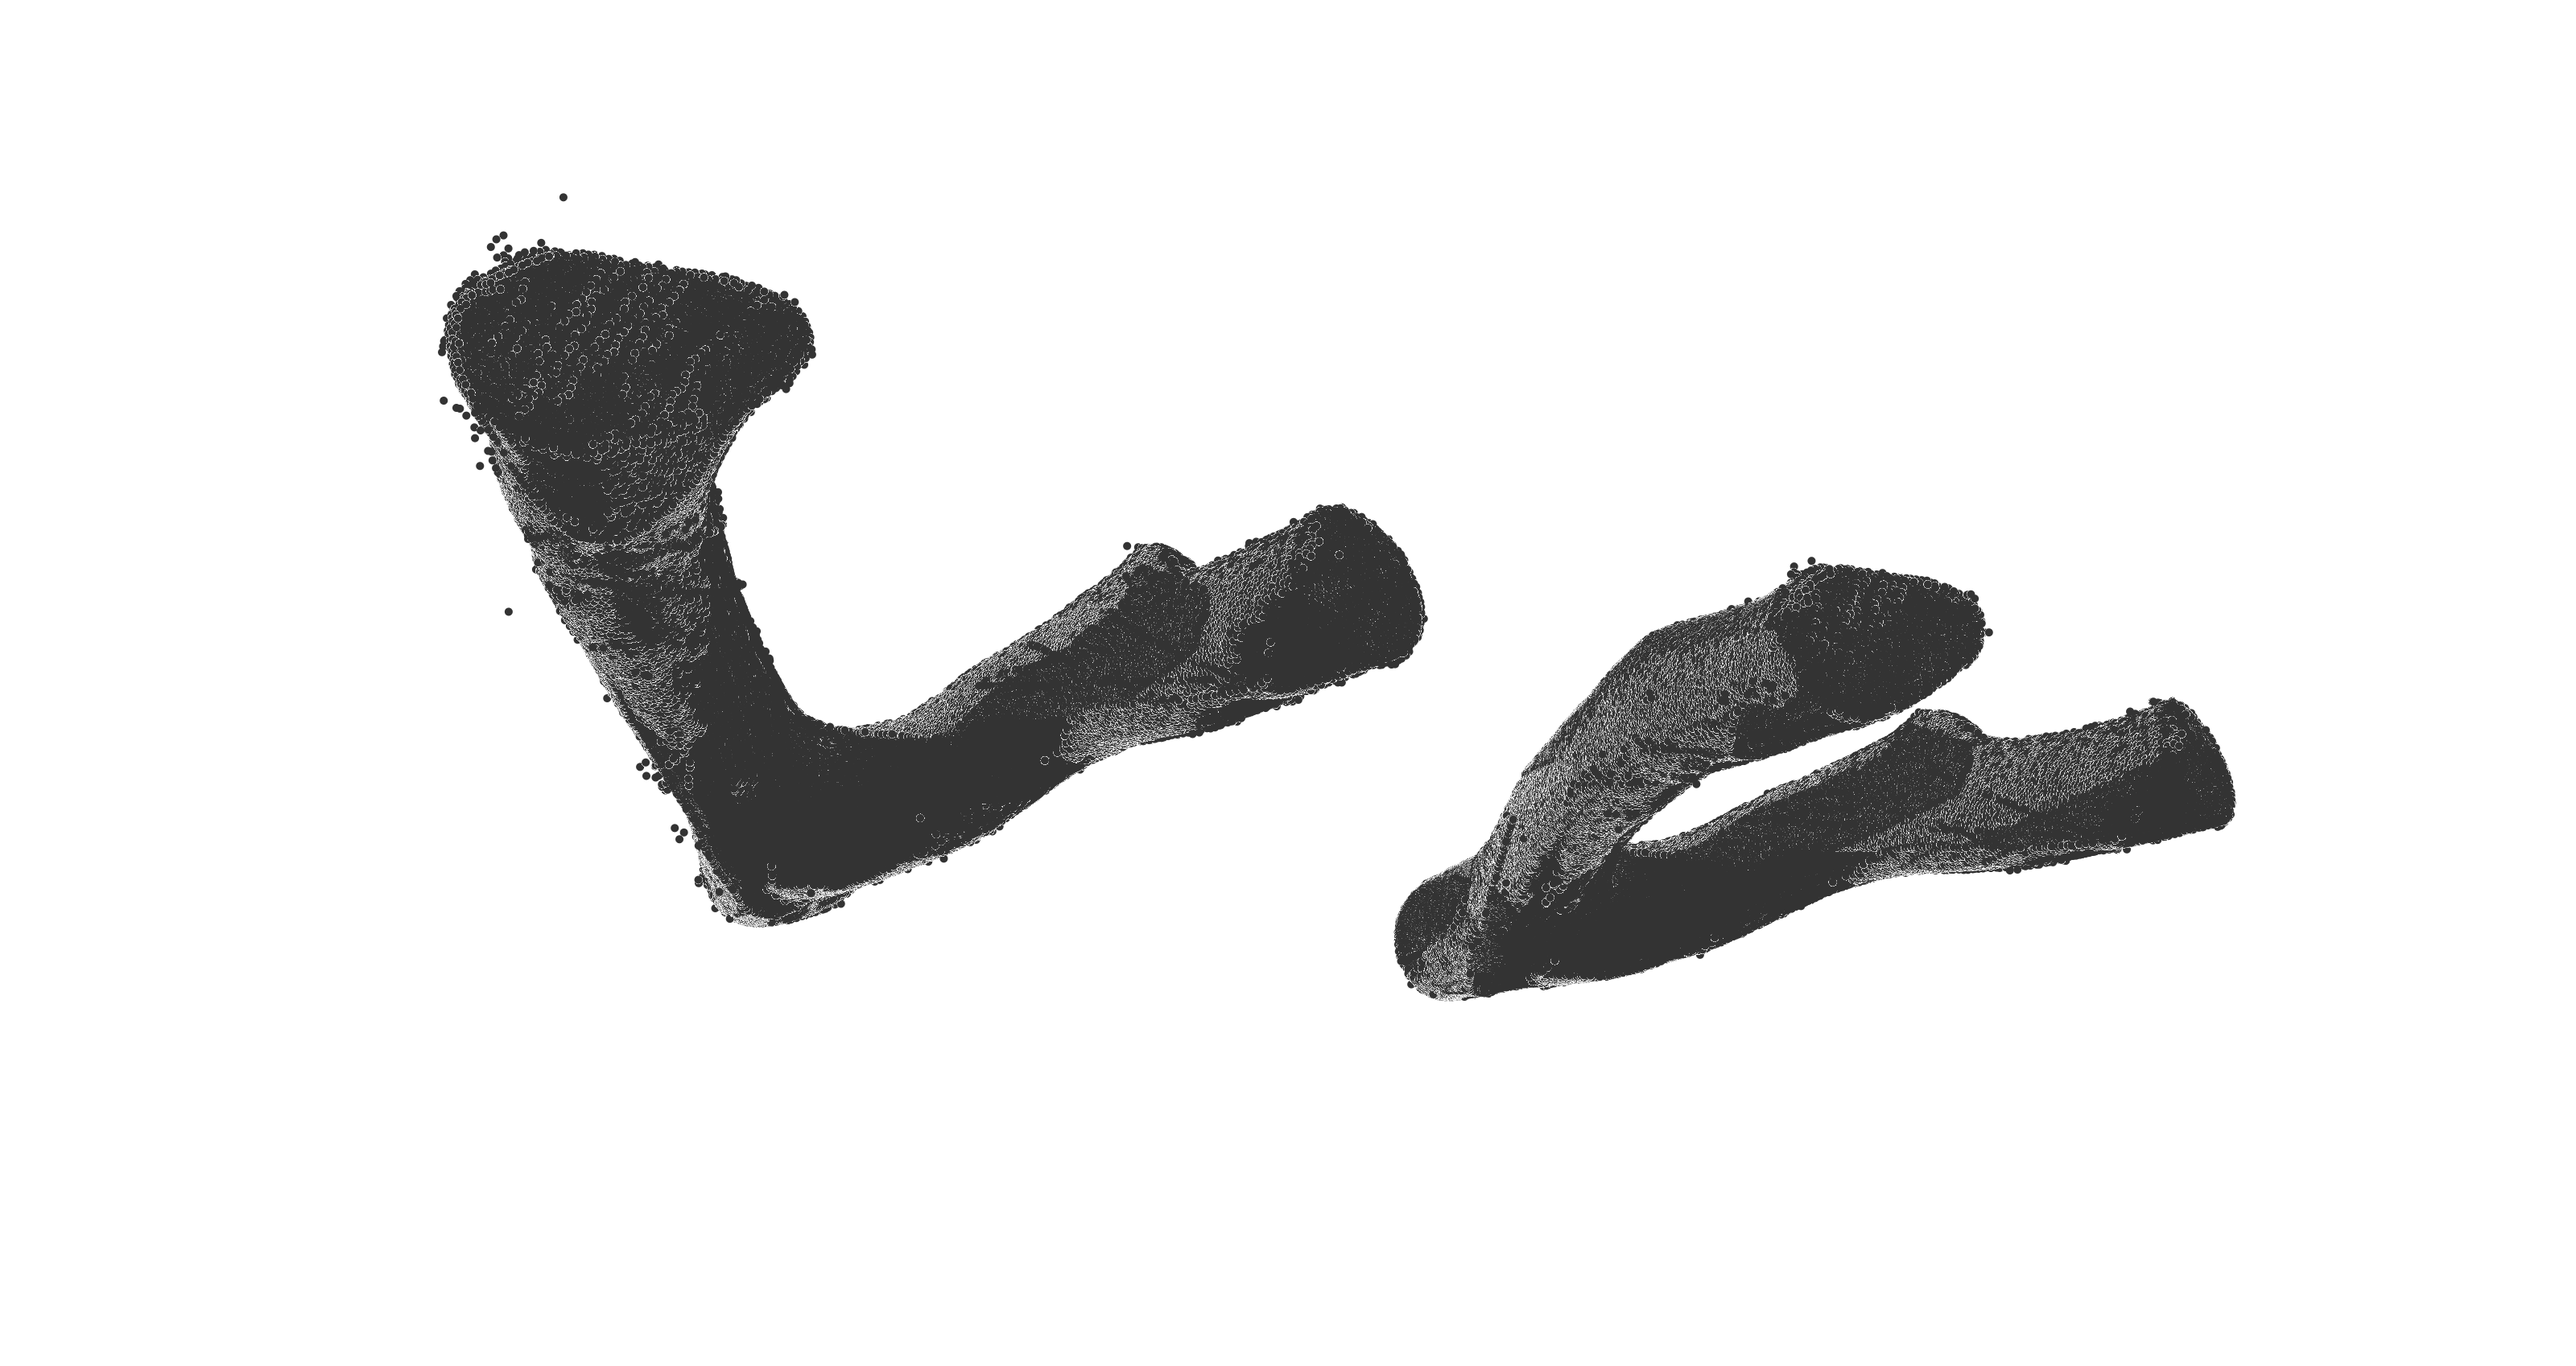
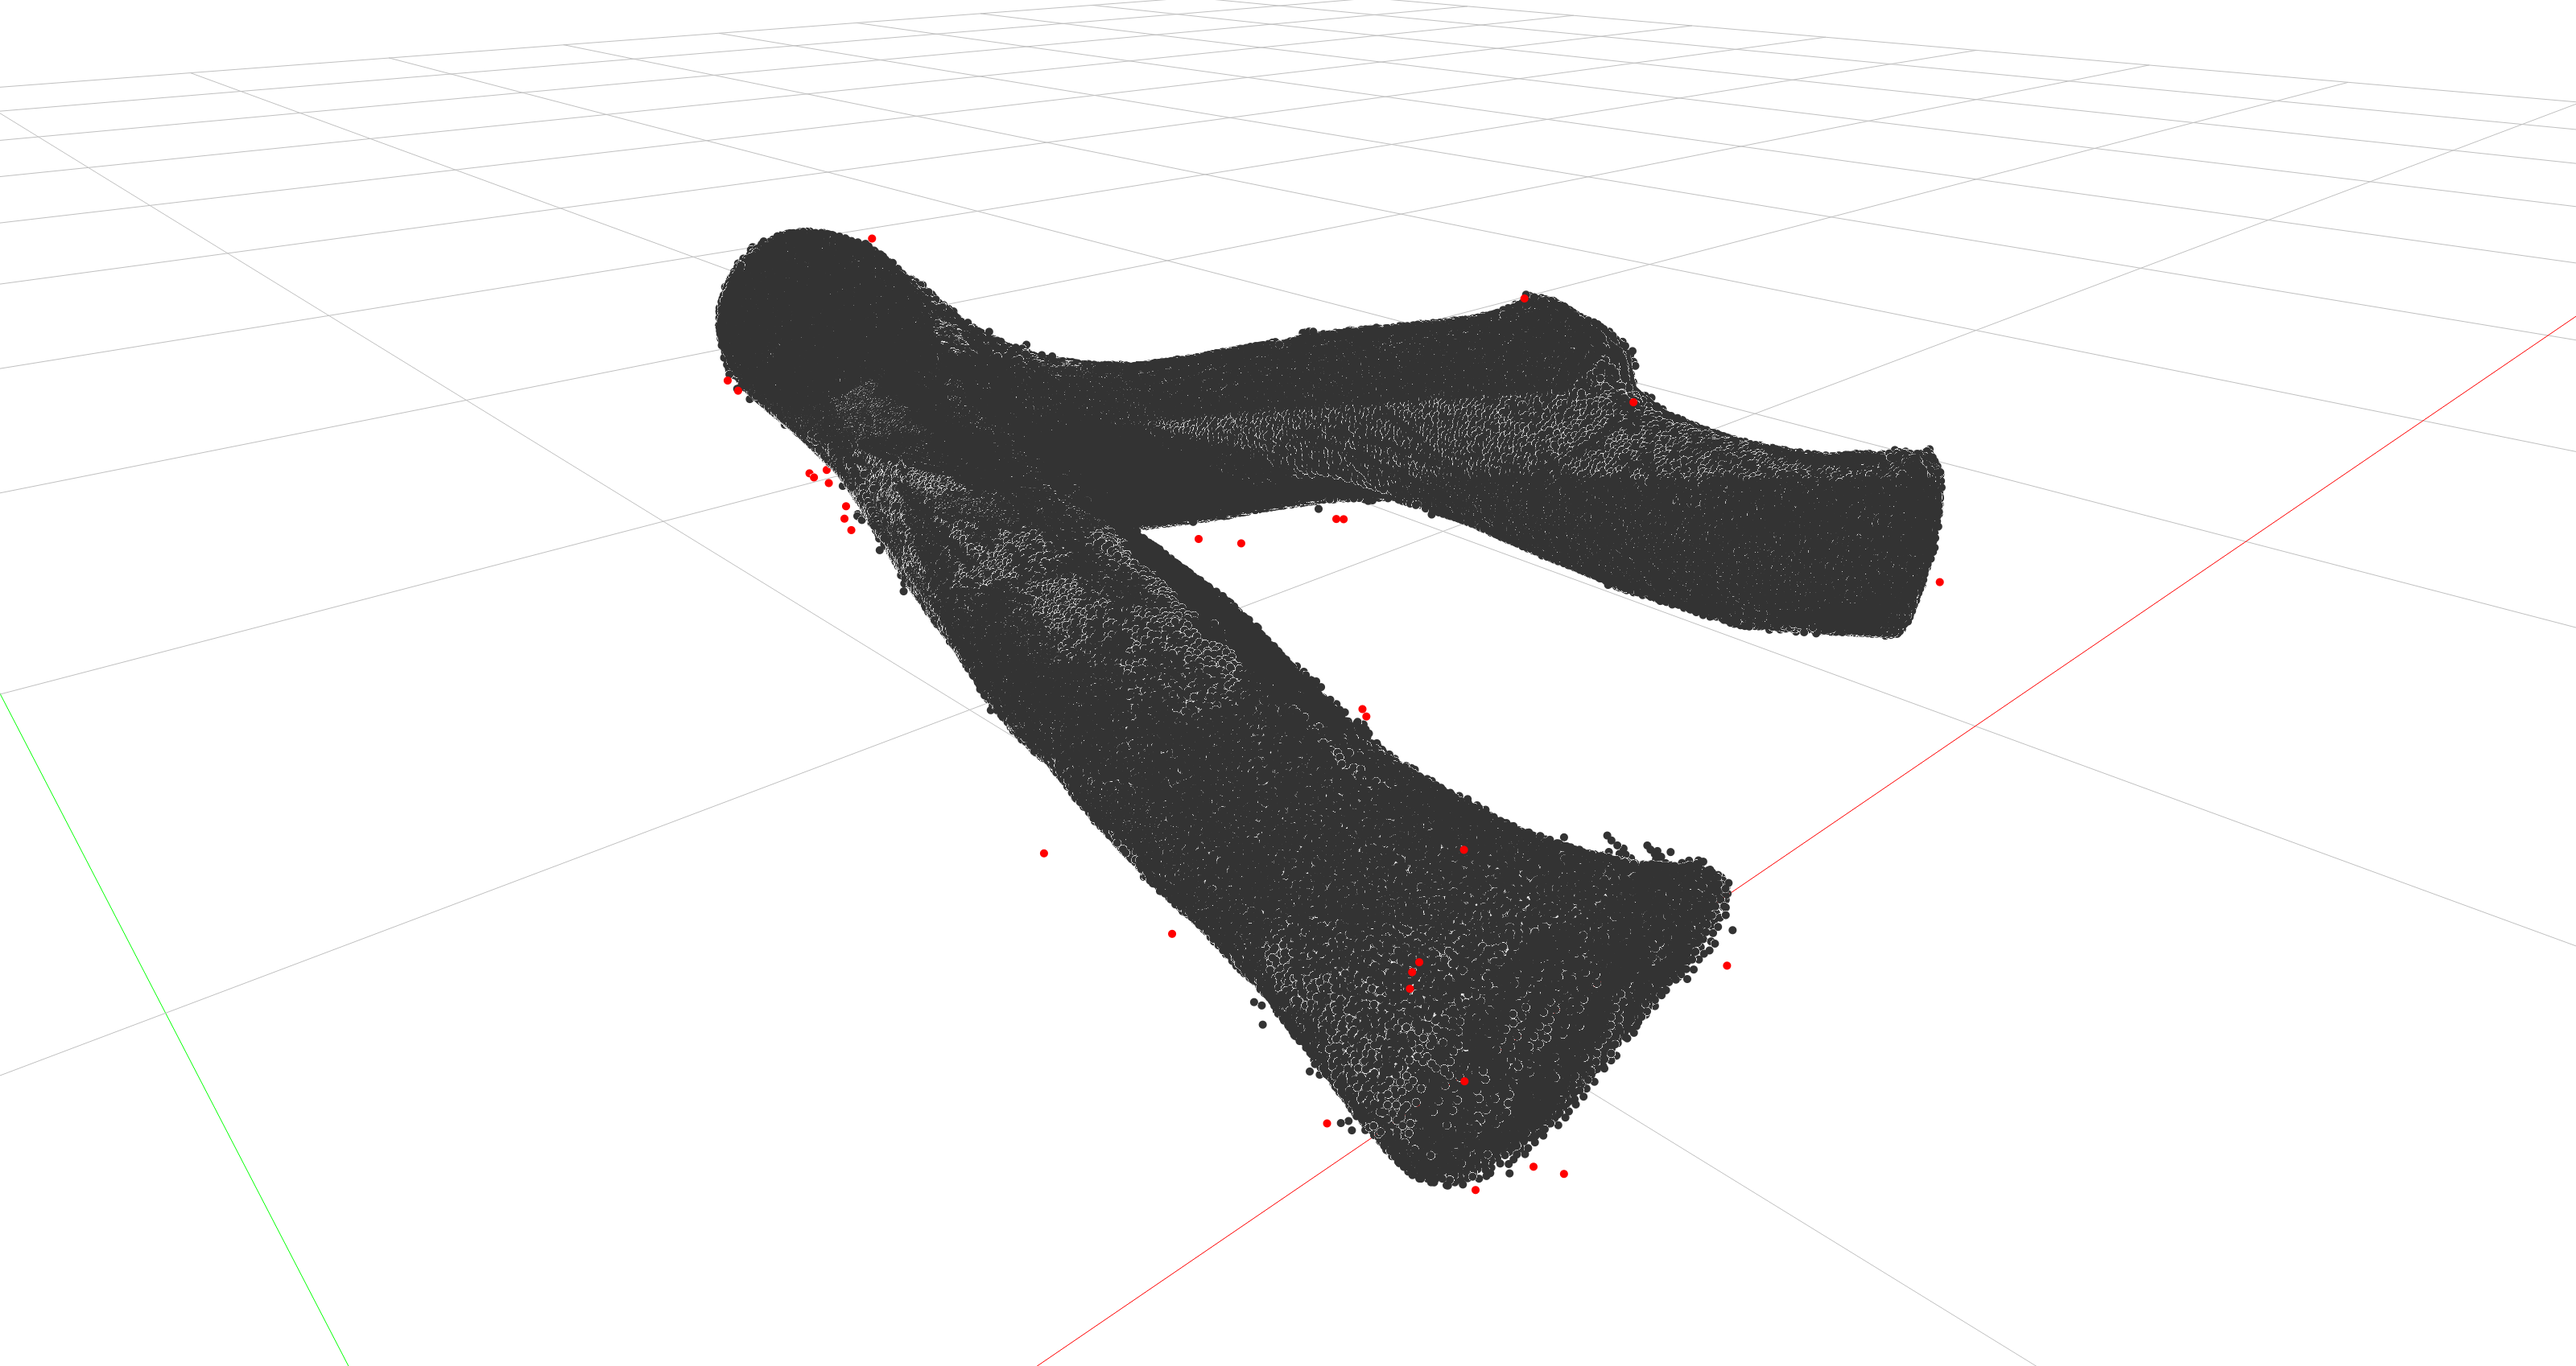
switch to new theme

Changed region(s): [[0.1562, 0.1561, 0.875, 0.874], [0.5, 0.0, 0.5625, 0.0312], [0.4375, 0.0, 0.4688, 0.0312]]

diff --git a/docs/conf.py b/docs/conf.py
@@ -1,14 +1,7 @@
 # flake8: noqa
 # -*- coding: utf-8 -*-
 
-# If your documentation needs a minimal Sphinx version, state it here.
-#
-# needs_sphinx = "1.0"
-
-import inspect
-import importlib
-import re
-import sphinx_compas_theme  # this is a temp solution
+import sphinx_compas2_theme
 
 # -- General configuration ------------------------------------------------
 
@@ -18,23 +11,15 @@ author = "Tom Van Mele"
 package = "compas_cgal"
 organization = "compas-dev"
 
+master_doc = "index"
+source_suffix = {".rst": "restructuredtext", ".md": "markdown"}
+templates_path = sphinx_compas2_theme.get_autosummary_templates_path()
+exclude_patterns = sphinx_compas2_theme.default_exclude_patterns + ["reference/**"]
+add_module_names = True
+language = "en"
 
-def get_latest_version():
-    with open("../CHANGELOG.md", "r") as file:
-        content = file.read()
-        pattern = re.compile(r"## (Unreleased|\[\d+\.\d+\.\d+\])")
-        versions = pattern.findall(content)
-        latest_version = versions[0] if versions else None
-        if (
-            latest_version
-            and latest_version.startswith("[")
-            and latest_version.endswith("]")
-        ):
-            latest_version = latest_version[1:-1]
-        return latest_version
+latest_version = sphinx_compas2_theme.get_latest_version()
 
-
-latest_version = get_latest_version()
 if latest_version == "Unreleased":
     release = "Unreleased"
     version = "latest"
@@ -42,55 +27,18 @@ else:
     release = latest_version
     version = ".".join(release.split(".")[0:2])  # type: ignore
 
-master_doc = "index"
-source_suffix = {
-    ".rst": "restructuredtext",
-    ".md": "markdown",
-}
-templates_path = sphinx_compas_theme.get_autosummary_templates_path() + ["_templates"]
-exclude_patterns = ["_build", "**.ipynb_checkpoints", "_notebooks", "**/__temp"]
-
-# pygments_style = "sphinx"
-# pygments_dark_style = "monokai"
-# show_authors = True
-add_module_names = True
-language = "en"
-
-
 # -- Extension configuration ------------------------------------------------
 
-extensions = [
-    "sphinx.ext.autodoc",
-    "sphinx.ext.autosummary",
-    "sphinx.ext.doctest",
-    "sphinx.ext.intersphinx",
-    "sphinx.ext.mathjax",
-    # "sphinx.ext.linkcode",
-    "sphinx.ext.extlinks",
-    "sphinx.ext.githubpages",
-    "sphinx.ext.coverage",
-    # "sphinx.ext.inheritance_diagram",
-    "sphinx.ext.graphviz",
-    # "matplotlib.sphinxext.plot_directive",
-    "sphinx.ext.autodoc.typehints",
-    "sphinx_design",
-    "sphinx_inline_tabs",
-    "sphinx_togglebutton",
-    "sphinx_remove_toctrees",
-    "sphinx_copybutton",
-    # "sphinxcontrib.bibtex",
-    "numpydoc",
-]
+extensions = sphinx_compas2_theme.default_extensions
+extensions.remove("sphinx.ext.linkcode")
 
-# remove_from_toctrees = ["api/generated/*"]
+# numpydoc options
 
 numpydoc_show_class_members = False
 numpydoc_class_members_toctree = False
 numpydoc_attributes_as_param_list = True
 
 # bibtex options
-
-# bibtex_bibfiles = ['refs.bib']
 
 # autodoc options
 
@@ -107,18 +55,7 @@ autodoc_typehints = "description"
 autodoc_typehints_format = "short"
 autodoc_typehints_description_target = "documented"
 
-autodoc_mock_imports = [
-    "System",
-    "clr",
-    "Eto",
-    "Rhino",
-    "Grasshopper",
-    "scriptcontext",
-    "rhinoscriptsyntax",
-    "bpy",
-    "bmesh",
-    "mathutils",
-]
+autodoc_mock_imports = sphinx_compas2_theme.default_mock_imports
 
 autodoc_default_options = {
     "undoc-members": True,
@@ -129,32 +66,10 @@ autodoc_member_order = "groupwise"
 
 autoclass_content = "class"
 
-
-def skip(app, what, name, obj, would_skip, options):
-    if name.startswith("_"):
-        return True
-    return would_skip
-
-
-def setup(app):
-    app.connect("autodoc-skip-member", skip)
-
-
 # autosummary options
 
 autosummary_generate = True
-autosummary_mock_imports = [
-    "System",
-    "clr",
-    "Eto",
-    "Rhino",
-    "Grasshopper",
-    "scriptcontext",
-    "rhinoscriptsyntax",
-    "bpy",
-    "bmesh",
-    "mathutils",
-]
+autosummary_mock_imports = sphinx_compas2_theme.default_mock_imports
 
 # graph options
 
@@ -174,54 +89,11 @@ intersphinx_mapping = {
 
 # linkcode
 
-
-def linkcode_resolve(domain, info):
-    if domain != "py":
-        return None
-    if not info["module"]:
-        return None
-    if not info["fullname"]:
-        return None
-
-    package = info["module"].split(".")[0]
-    if not package.startswith(package):
-        return None
-
-    module = importlib.import_module(info["module"])
-    parts = info["fullname"].split(".")
-
-    if len(parts) == 1:
-        obj = getattr(module, info["fullname"])
-        mod = inspect.getmodule(obj)
-        if not mod:
-            return None
-        filename = mod.__name__.replace(".", "/")
-        lineno = inspect.getsourcelines(obj)[1]
-    elif len(parts) == 2:
-        obj_name, attr_name = parts
-        obj = getattr(module, obj_name)
-        attr = getattr(obj, attr_name)
-        if inspect.isfunction(attr):
-            mod = inspect.getmodule(attr)
-            if not mod:
-                return None
-            filename = mod.__name__.replace(".", "/")
-            lineno = inspect.getsourcelines(attr)[1]
-        else:
-            return None
-    else:
-        return None
-
-    return f"https://github.com/{organization}/{package}/blob/main/src/{filename}.py#L{lineno}"
-
+# linkcode_resolve = sphinx_compas2_theme.get_linkcode_resolve(organization, package)
 
 # extlinks
 
-
-extlinks = {
-    "rhino": ("https://developer.rhino3d.com/api/RhinoCommon/html/T_%s.htm", "%s"),
-    "blender": ("https://docs.blender.org/api/2.93/%s.html", "%s"),
-}
+extlinks = {}
 
 # from pytorch
 
@@ -255,67 +127,49 @@ replace(html5.HTML5Translator)
 
 # -- Options for HTML output ----------------------------------------------
 
-html_theme = "pydata_sphinx_theme"
-html_logo = "_static/compas_icon.png"
+html_theme = "sidebaronly"
 html_title = project
-html_favicon = "_static/compas.ico"
 
 html_theme_options = {
-    "logo": {
-        "text": project,
-        "image_light": "_static/compas_icon.png",
-        "image_dark": "_static/compas_icon_white.png",
-    },
+    "icon_links": [
+        {
+            "name": "GitHub",
+            "url": f"https://github.com/{organization}/{package}",
+            "icon": "fa-brands fa-github",
+            "type": "fontawesome",
+        },
+        {
+            "name": "Discourse",
+            "url": "http://forum.compas-framework.org/",
+            "icon": "fa-brands fa-discourse",
+            "type": "fontawesome",
+        },
+        {
+            "name": "PyPI",
+            "url": f"https://pypi.org/project/{package}/",
+            "icon": "fa-brands fa-python",
+            "type": "fontawesome",
+        },
+    ],
     "switcher": {
         "json_url": f"https://raw.githubusercontent.com/{organization}/{package}/gh-pages/versions.json",
         "version_match": version,
     },
     "check_switcher": False,
-    "navigation_depth": 3,
-    "show_nav_level": 1,
-    "show_toc_level": 2,
-    "pygment_light_style": "default",
-    "pygment_dark_style": "monokai",
+    "logo": {
+        "image_light": "_static/compas_icon_white.png",  # relative to parent of conf.py
+        "image_dark": "_static/compas_icon_white.png",  # relative to parent of conf.py
+        "text": project,
+    },
+    "navigation_depth": 2,
 }
 
-html_theme_options["icon_links"] = [
+favicons = [
     {
-        "name": "GitHub",
-        "url": f"https://github.com/{organization}/{package}",
-        "icon": "fa-brands fa-github",
-        "type": "fontawesome",
-    },
-    {
-        "name": "Discourse",
-        "url": "http://forum.compas-framework.org/",
-        "icon": "fa-brands fa-discourse",
-        "type": "fontawesome",
-    },
-    {
-        "name": "PyPI",
-        "url": "https://pypi.org/project/compas-libigl/",
-        "icon": "fa-brands fa-python",
-        "type": "fontawesome",
-    },
+        "rel": "icon",
+        "href": "compas.ico",  # relative to the static path
+    }
 ]
-
-html_theme_options["navbar_start"] = [
-    "navbar-logo",
-]
-
-html_theme_options["navbar_end"] = [
-    "version-switcher",
-    "theme-switcher",
-    "navbar-icon-links",
-]
-
-
-html_sidebars = {
-    "**": [
-        "sbt-sidebar-nav.html",
-        "compas-sidebar-footer.html",
-    ]
-}
 
 html_context = {
     "github_url": "https://github.com",
@@ -323,11 +177,10 @@ html_context = {
     "github_repo": package,
     "github_version": "main",
     "doc_path": "docs",
-    "default_theme": "light",
 }
 
-html_static_path = ["_static"]
-html_css_files = ["compas.css"]
+html_static_path = sphinx_compas2_theme.get_html_static_path() + ["_static"]
+html_css_files = []
 html_extra_path = []
 html_last_updated_fmt = ""
 html_copy_source = False

diff --git a/docs/examples/pointsets.py b/docs/examples/pointsets.py
@@ -1,24 +1,23 @@
 from pathlib import Path
 from compas.geometry import Pointcloud
-from compas.geometry import Translation
 from compas_view2.app import App
 from compas_cgal.reconstruction import pointset_outlier_removal
 
-HERE = Path(__file__).parent
-FILE = HERE / ".." / ".." / "data" / "forked_branch_1.ply"
+FILE = Path(__file__).parent.parent.parent / "data" / "forked_branch_1.ply"
 
 cloud1 = Pointcloud.from_ply(FILE)
 
 points = pointset_outlier_removal(cloud1, 30, 2.0)
 
 cloud2 = Pointcloud(points)
+could3 = cloud1.difference(cloud2)
 
 viewer = App(width=1600, height=900)
 viewer.view.camera.scale = 1000
 viewer.view.grid.cell_size = 1000
 
-viewer.add(cloud1)
-viewer.add(cloud2.transformed(Translation.from_vector([1000, 0, 0])))
+viewer.add(cloud2)
+viewer.add(could3, pointcolor=(1.0, 0.0, 0.0))
 
 viewer.view.camera.zoom_extents()
 viewer.run()

diff --git a/docs/devguide.rst b/docs/devguide.rst
@@ -144,16 +144,13 @@ To avoid having VS Code complain about missing includes, add the following to ``
     {
         "configurations": [
             {
-                ...
                 "includePath": [
                     "${workspaceFolder}/**",
                     "/path/to/(mini)conda/envs/cgal-dev/include",
                     "/path/to/(mini)conda/envs/cgal-dev/include/python3.9",
                     "/path/to/(mini)conda/envs/cgal-dev/include/eigen3"
-                ],
-                ...
-            },
-        ...
+                ]
+            }
     }
 
 Replace ``/path/to/(mini)conda`` with the actual path to your (mini)conda installation.
